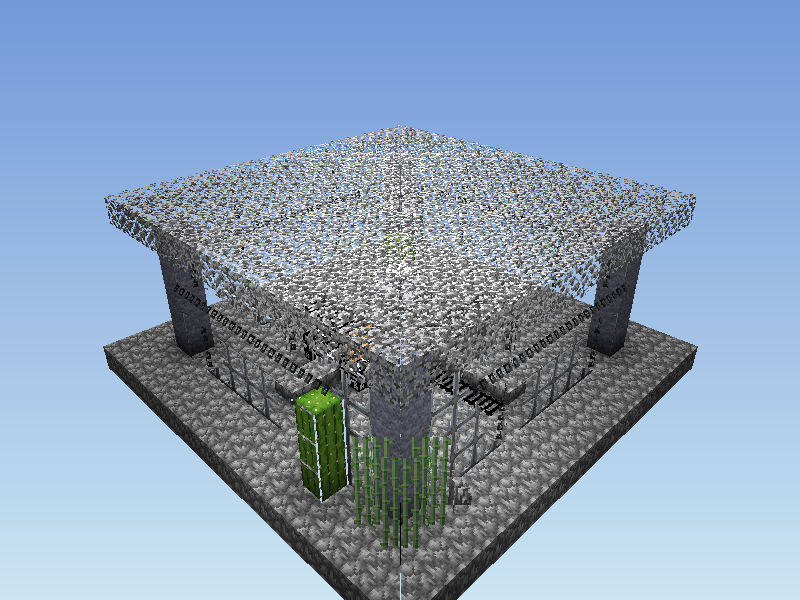
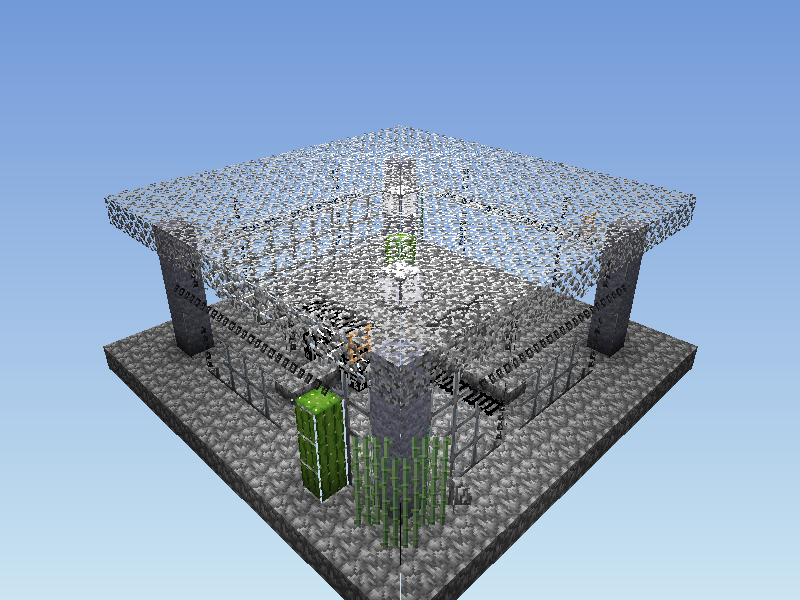
Lighting fixes.

Changed region(s): [[0.1562, 0.21, 0.8438, 0.63]]

diff --git a/src/mesh.rs b/src/mesh.rs
@@ -336,12 +336,10 @@ fn is_culled_at_boundary<B: Block>(block: &B, neighbor: &B, face: Face) -> bool 
     }
     match (block.cull_mode(), neighbor.cull_mode()) {
         (_, CullMode::Opaque) => true,
-        (CullMode::TransparentMerged(a), CullMode::TransparentMerged(b)) => {
-            // Equal groups: cull both faces (standard merge).
-            // Different groups: cull the negative face so only one
-            // face is emitted per boundary, avoiding z-fighting.
-            a == b || !face.is_positive()
-        }
+        (CullMode::TransparentMerged(a), CullMode::TransparentMerged(b)) => a == b,
+        // Unmerged transparent: cull the negative face so only one
+        // face is emitted per boundary, avoiding z-fighting.
+        (CullMode::TransparentUnmerged, CullMode::TransparentUnmerged) => !face.is_positive(),
         _ => false,
     }
 }
@@ -798,24 +796,27 @@ fn emit_cross_quads<B: Block>(
 /// The resulting [`Quad`] positions span [0, 1] (or the appropriate
 /// sub-range for slabs), the same coordinate space as a block at
 /// (0,0,0) in a chunk.
-pub fn block_faces<B: Block>(block: &B) -> Quads<B::Light> {
+pub fn block_faces<B: Block>(block: &B, light: <B::Light as Light>::Average) -> Quads<B::Light> {
     let mut quads = Quads::new();
-    block_faces_into(block, &mut quads);
+    block_faces_into(block, light, &mut quads);
     quads
 }
 
 /// Like [`block_faces`], but reuses an existing [`Quads`] buffer.
 ///
-/// The single block's own light value is used for all vertices (no
-/// neighbor data is available), and AO is disabled.
-pub fn block_faces_into<B: Block>(block: &B, quads: &mut Quads<B::Light>) {
+/// `light` is applied uniformly to all vertices. AO is disabled.
+pub fn block_faces_into<B: Block>(
+    block: &B,
+    light: <B::Light as Light>::Average,
+    quads: &mut Quads<B::Light>,
+) {
     quads.reset();
 
     if !block.cull_mode().is_renderable() {
         return;
     }
 
-    let avg = B::Light::average(&[block.light()]);
+    let avg = light;
 
     if let Shape::Cross(info) = block.shape() {
         let p = PADDING as u32;
@@ -1129,7 +1130,7 @@ mod tests {
         let mut chunk = PaddedChunk::new_filled(TestBlock::Air);
         chunk.set(UVec3::ZERO, TestBlock::Stone);
         let from_chunk = greedy_mesh(&chunk);
-        let from_block = block_faces(&TestBlock::Stone);
+        let from_block = block_faces(&TestBlock::Stone, ());
         assert_eq!(from_chunk.total(), from_block.total());
         for face in Face::ALL {
             assert_eq!(
@@ -1143,7 +1144,7 @@ mod tests {
 
     #[test]
     fn block_faces_air_produces_no_quads() {
-        let q = block_faces(&TestBlock::Air);
+        let q = block_faces(&TestBlock::Air, ());
         assert_eq!(q.total(), 0);
     }
 

diff --git a/tests/cross.rs b/tests/cross.rs
@@ -27,7 +27,7 @@ fn cross_block_faces_matches_greedy_mesh() {
     let mut chunk = PaddedChunk::new_filled(TestBlock::Air);
     chunk.set(glam::UVec3::ZERO, TestBlock::SugarCane);
     let from_chunk = greedy_mesh(&chunk);
-    let from_block = block_faces(&TestBlock::SugarCane);
+    let from_block = block_faces(&TestBlock::SugarCane, ());
     assert_eq!(from_chunk.total(), from_block.total());
     for diag in DiagonalFace::ALL {
         assert_eq!(
@@ -41,7 +41,7 @@ fn cross_block_faces_matches_greedy_mesh() {
 
 #[test]
 fn cross_does_not_produce_axis_aligned_faces() {
-    let q = block_faces(&TestBlock::Cobweb);
+    let q = block_faces(&TestBlock::Cobweb, ());
     for face in Face::ALL {
         assert_eq!(face_count(&q, face), 0);
     }
@@ -99,7 +99,7 @@ fn cross_does_not_cull_adjacent_opaque_block() {
 
 #[test]
 fn cross_diagonal_positions_span_unit_block() {
-    let q = block_faces(&TestBlock::SugarCane);
+    let q = block_faces(&TestBlock::SugarCane, ());
 
     for diag in DiagonalFace::ALL {
         let quad = &q.diagonals[diag.index()][0];
@@ -171,7 +171,7 @@ fn merged_cross_diagonal_height_spans_multiple_blocks() {
 
 #[test]
 fn stretched_cross_extends_beyond_block_boundary() {
-    let q = block_faces(&TestBlock::Cobweb);
+    let q = block_faces(&TestBlock::Cobweb, ());
 
     // Cobweb has stretch=4 (4/16 = 0.25 extra on each side).
     for diag in DiagonalFace::ALL {
@@ -212,7 +212,7 @@ fn cross_horizontal_neighbors_do_not_merge() {
 
 #[test]
 fn cross_texture_coordinates_span_one_by_one() {
-    let q = block_faces(&TestBlock::SugarCane);
+    let q = block_faces(&TestBlock::SugarCane, ());
     for diag in DiagonalFace::ALL {
         let quad = &q.diagonals[diag.index()][0];
         let uvs = quad.texture_coordinates(diag, Axis::X, false);
@@ -244,7 +244,7 @@ fn merged_cross_texture_coordinates_scale_vertically() {
 #[test]
 fn cross_posy_root_crosses_in_xz_plane() {
     // PosY root: same crossing plane as NegY (XZ), merge along Y.
-    let q = block_faces(&TestBlock::Chain);
+    let q = block_faces(&TestBlock::Chain, ());
     assert_eq!(q.total(), 2);
 
     for diag in DiagonalFace::ALL {
@@ -268,7 +268,7 @@ fn cross_posy_root_crosses_in_xz_plane() {
 #[test]
 fn cross_posx_root_crosses_in_yz_plane() {
     // PosX root: crossing in YZ, merge along X.
-    let q = block_faces(&TestBlock::Vine);
+    let q = block_faces(&TestBlock::Vine, ());
     assert_eq!(q.total(), 2);
 
     for diag in DiagonalFace::ALL {

diff --git a/tests/facades.rs b/tests/facades.rs
@@ -33,7 +33,7 @@ fn facade_block_faces_matches_greedy_mesh() {
     let mut chunk = PaddedChunk::new_filled(TestBlock::Air);
     chunk.set(glam::UVec3::ZERO, TestBlock::Ladder);
     let from_chunk = greedy_mesh(&chunk);
-    let from_block = block_faces(&TestBlock::Ladder);
+    let from_block = block_faces(&TestBlock::Ladder, ());
     assert_eq!(from_chunk.total(), from_block.total());
     for face in Face::ALL {
         assert_eq!(
@@ -47,7 +47,7 @@ fn facade_block_faces_matches_greedy_mesh() {
 
 #[test]
 fn facade_posx_is_offset_from_face() {
-    let q = block_faces(&TestBlock::Ladder);
+    let q = block_faces(&TestBlock::Ladder, ());
     let quad = &q.faces[Face::PosX.index()][0];
     let verts = quad.positions(Face::PosX, TestBlock::Ladder.shape());
 
@@ -63,7 +63,7 @@ fn facade_posx_is_offset_from_face() {
 
 #[test]
 fn facade_negy_is_offset_from_face() {
-    let q = block_faces(&TestBlock::Rail);
+    let q = block_faces(&TestBlock::Rail, ());
     let quad = &q.faces[Face::NegY.index()][0];
     let verts = quad.positions(Face::NegY, TestBlock::Rail.shape());
 
@@ -155,7 +155,7 @@ fn facade_voxel_position_is_correct() {
 
 #[test]
 fn facade_texture_coordinates_span_one() {
-    let q = block_faces(&TestBlock::Ladder);
+    let q = block_faces(&TestBlock::Ladder, ());
     let quad = &q.faces[Face::PosX.index()][0];
     let uvs = quad.texture_coordinates(Face::PosX, Axis::X, false);
 

diff --git a/tests/inset.rs b/tests/inset.rs
@@ -26,7 +26,7 @@ fn inset_block_faces_matches_greedy_mesh() {
     let mut chunk = PaddedChunk::new_filled(TestBlock::Air);
     chunk.set(glam::UVec3::ZERO, TestBlock::Cactus);
     let from_chunk = greedy_mesh(&chunk);
-    let from_block = block_faces(&TestBlock::Cactus);
+    let from_block = block_faces(&TestBlock::Cactus, ());
     assert_eq!(from_chunk.total(), from_block.total());
     for face in Face::ALL {
         assert_eq!(
@@ -40,7 +40,7 @@ fn inset_block_faces_matches_greedy_mesh() {
 
 #[test]
 fn inset_side_faces_are_offset() {
-    let q = block_faces(&TestBlock::Cactus);
+    let q = block_faces(&TestBlock::Cactus, ());
 
     // PosX: all vertices should have x = 15/16.
     assert_face_on_plane(&q, Face::PosX, 0, 15.0 / 16.0);
@@ -54,7 +54,7 @@ fn inset_side_faces_are_offset() {
 
 #[test]
 fn inset_top_bottom_at_boundary() {
-    let q = block_faces(&TestBlock::Cactus);
+    let q = block_faces(&TestBlock::Cactus, ());
 
     // PosY: all vertices should have y = 1.0.
     assert_face_on_plane(&q, Face::PosY, 1, 1.0);
@@ -162,7 +162,7 @@ fn inset_voxel_position_is_correct() {
 
 #[test]
 fn inset_texture_coordinates_span_one() {
-    let q = block_faces(&TestBlock::Cactus);
+    let q = block_faces(&TestBlock::Cactus, ());
     for face in Face::ALL {
         let quad = &q.faces[face.index()][0];
         let uvs = quad.texture_coordinates(face, Axis::X, false);

diff --git a/tests/culling.rs b/tests/culling.rs
@@ -34,10 +34,11 @@ fn glass_next_to_stone_does_not_cull_stone() {
 }
 
 #[test]
-fn leaves_never_cull_neighbor() {
+fn leaves_emit_one_face_per_boundary() {
     let q = mesh_with(&[(0, 0, 0, TestBlock::Leaves), (1, 0, 0, TestBlock::Leaves)]);
-    // TransparentUnmerged never culls, both blocks keep all 6 faces.
+    // TransparentUnmerged emits only the positive face at each internal
+    // boundary to avoid z-fighting.
     // Coplanar same-type faces merge on PosY/NegY/PosZ/NegZ (4 merged).
-    // PosX:1 + NegX:1 + internal PosX:1 + internal NegX:1 + 4 merged = 8.
-    assert_eq!(q.total(), 8);
+    // PosX:1 + NegX:1 + internal PosX:1 + 4 merged = 7.
+    assert_eq!(q.total(), 7);
 }
